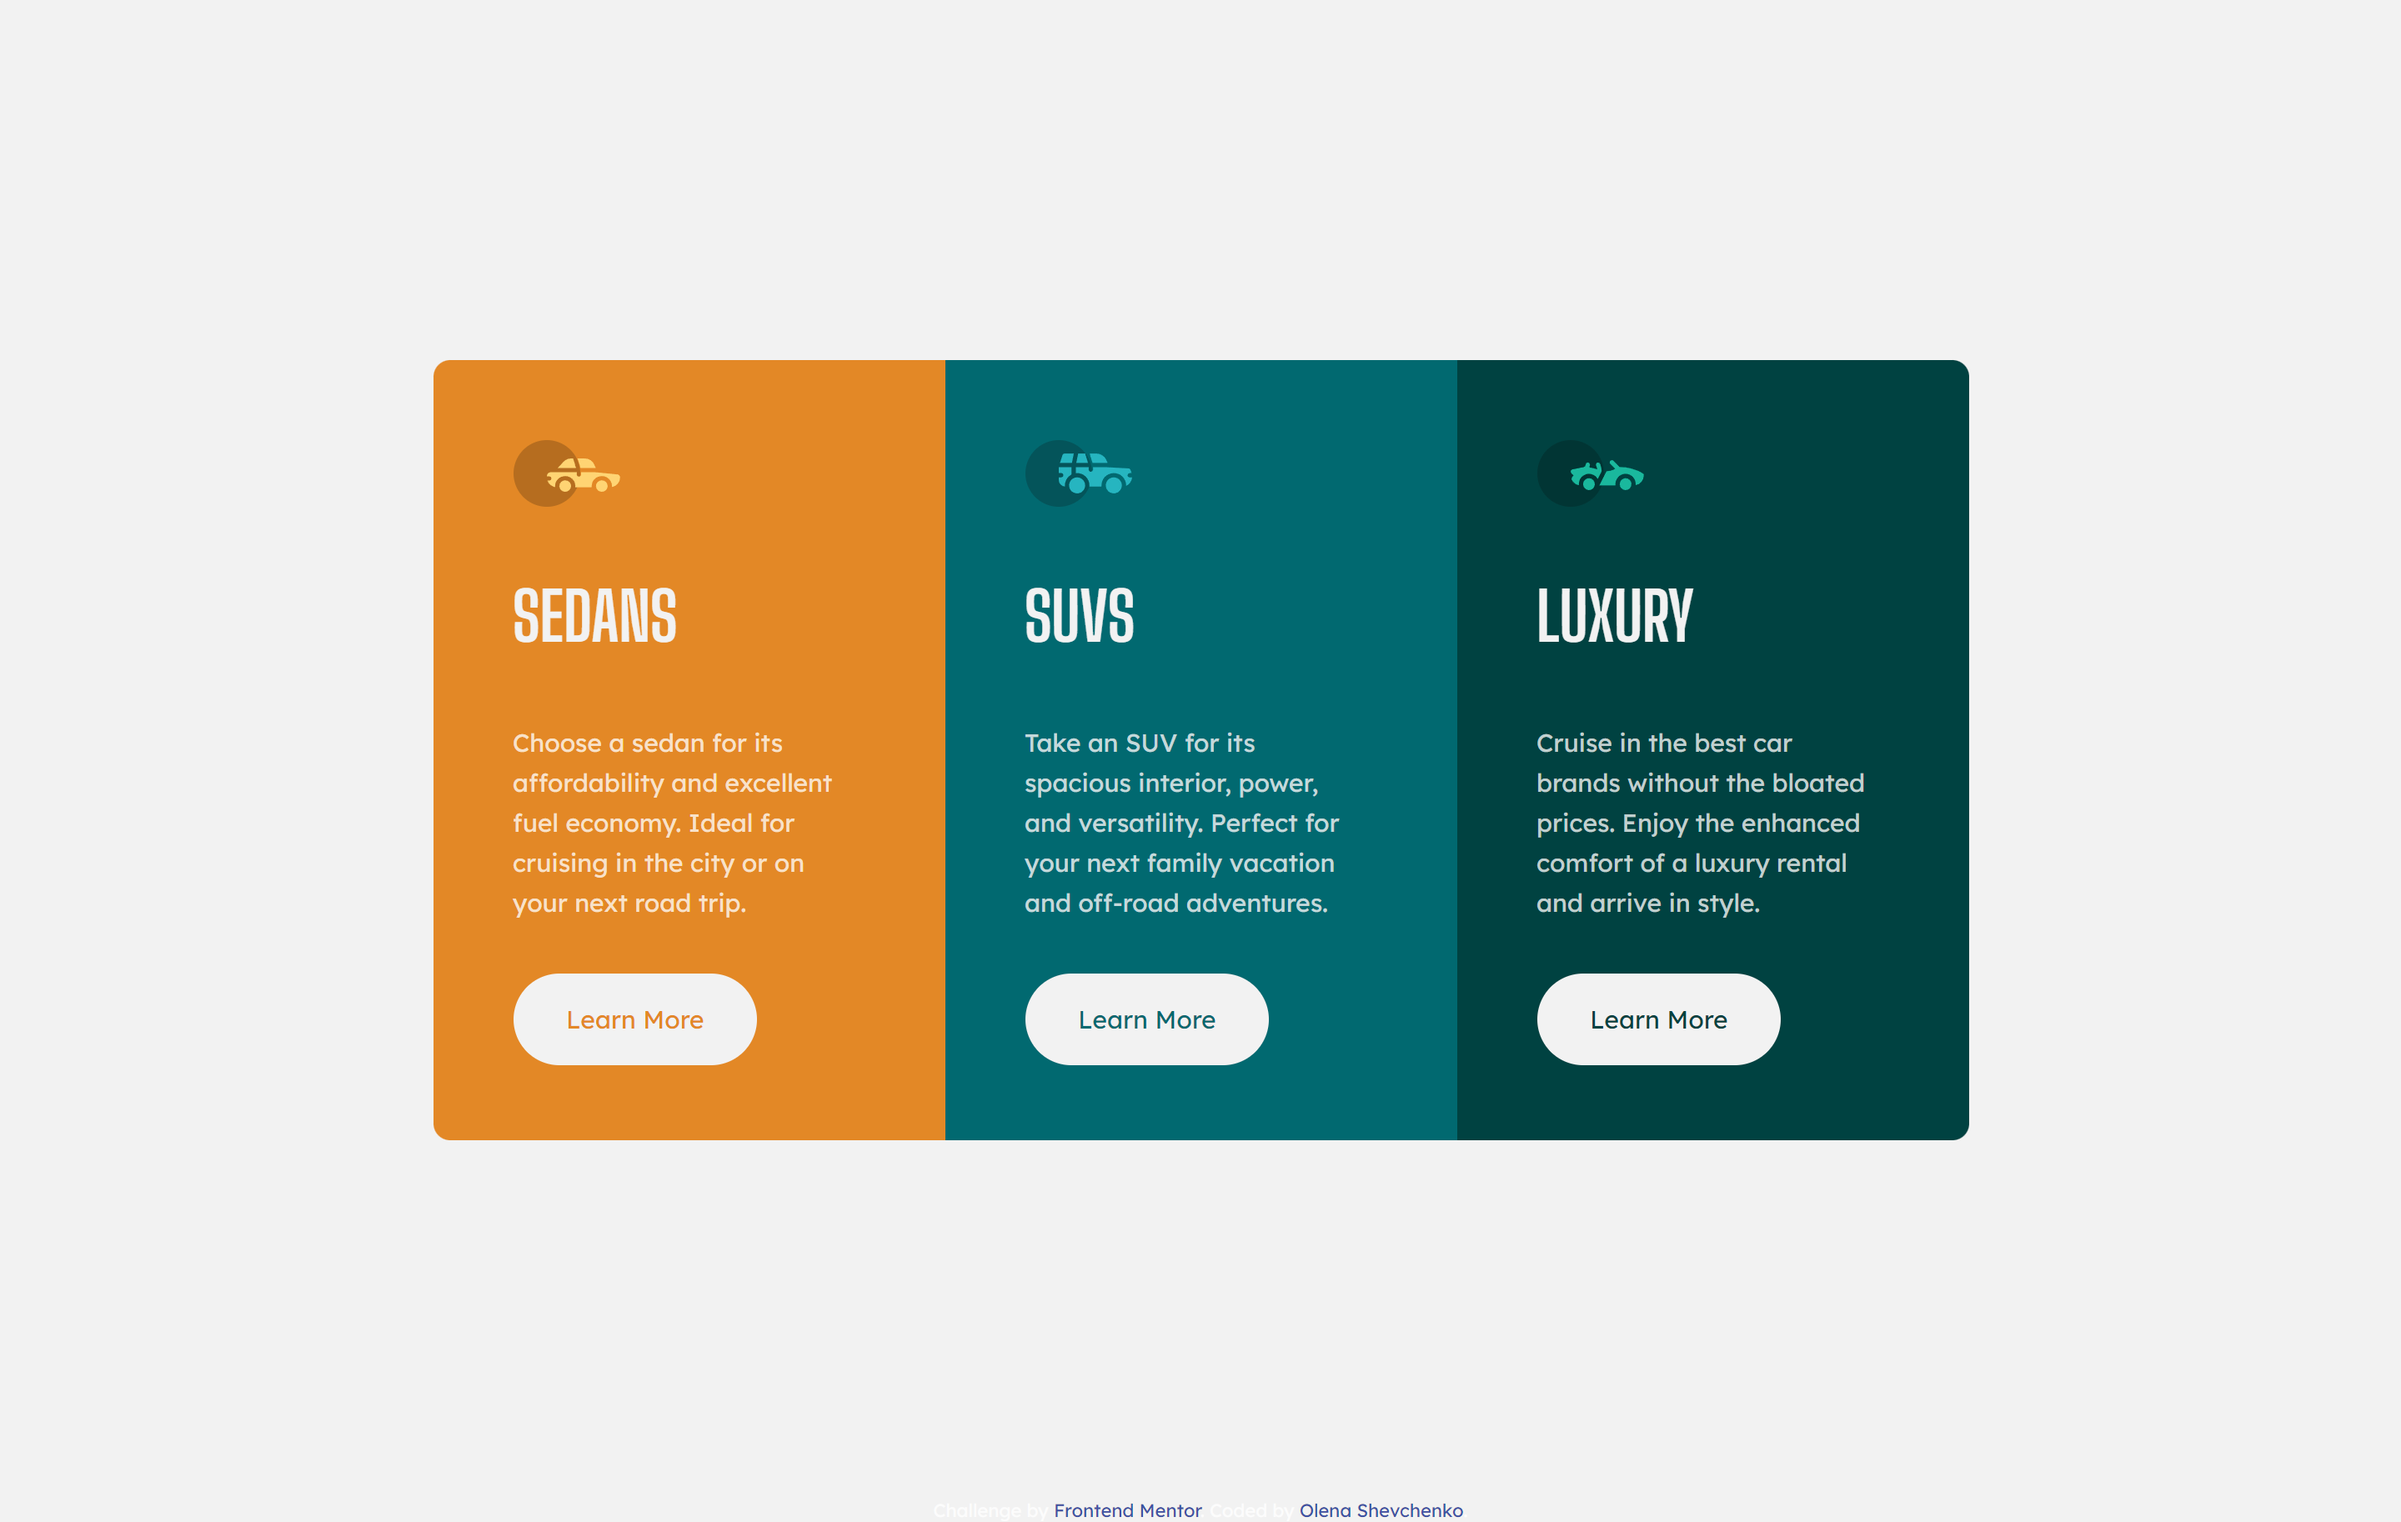
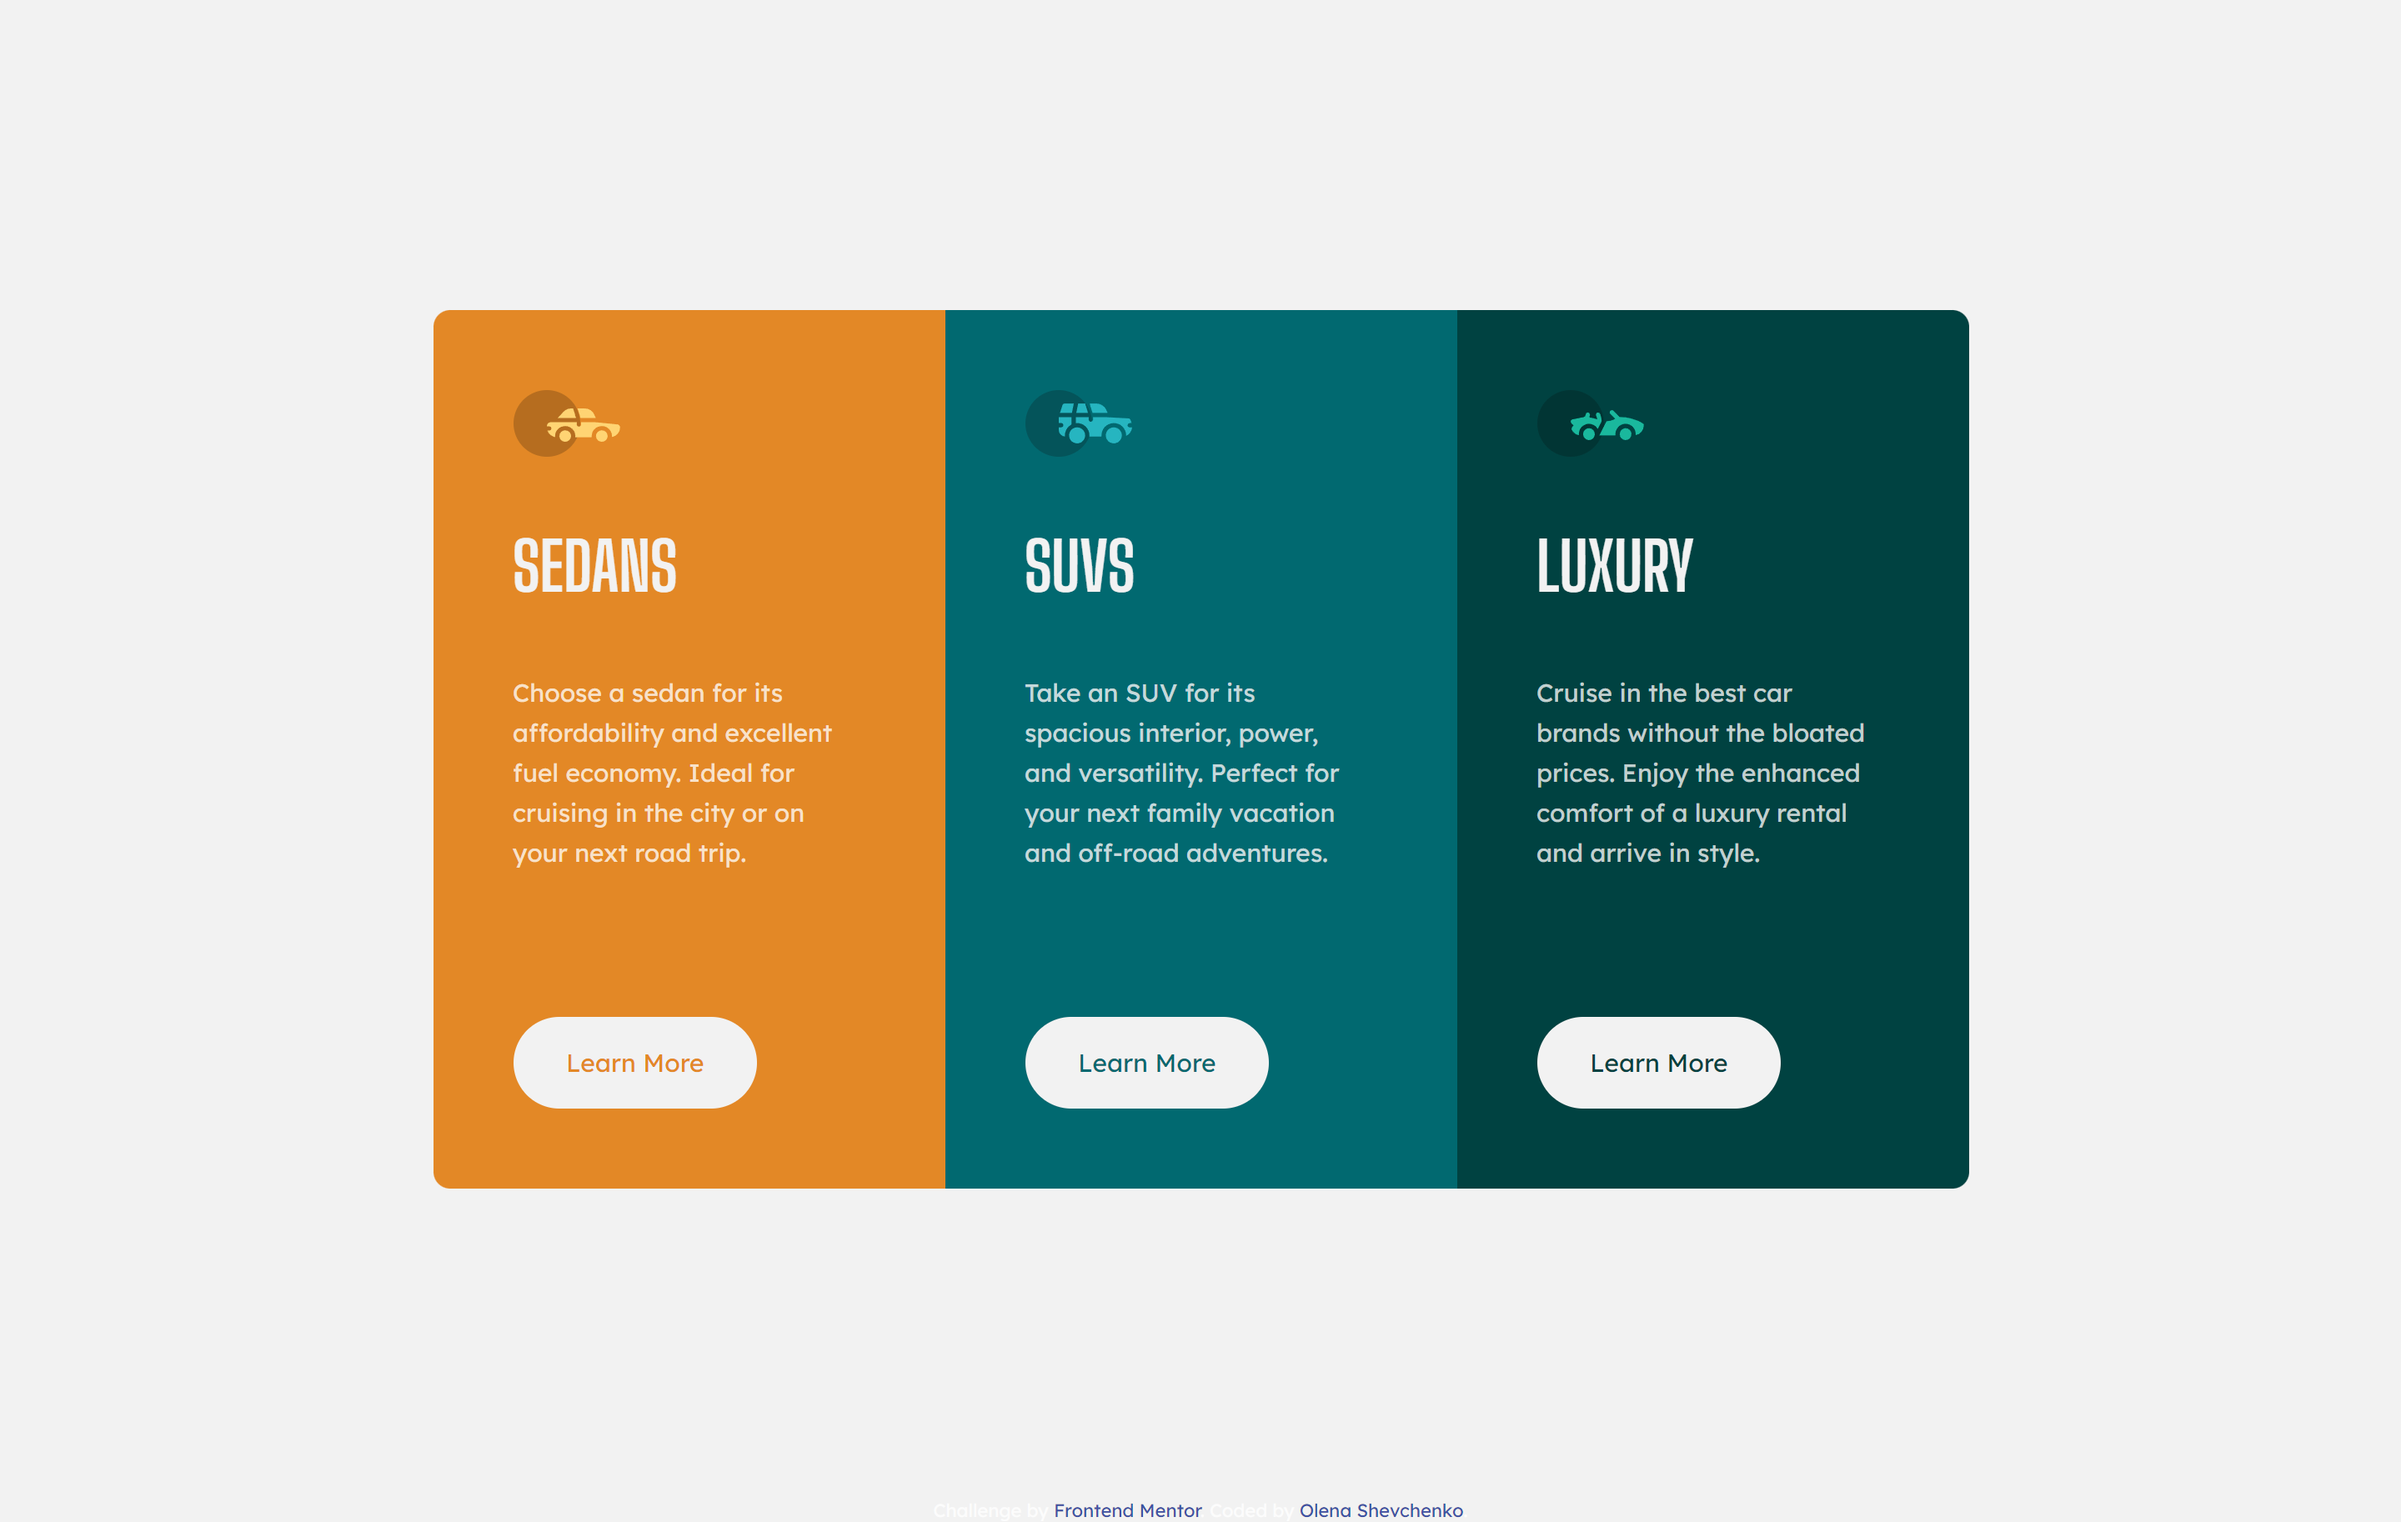
changed padding

Changed region(s): [[0.1562, 0.1873, 0.8438, 0.7804]]

diff --git a/style/style.css b/style/style.css
@@ -161,6 +161,9 @@ button:hover {
 
 /* ------------------------------- */
 @media (min-width: 61.9988em) {
+  p {
+    margin-bottom: 5.375rem;
+  }
   .page {
     display: flex;
     align-items: center;
@@ -171,6 +174,7 @@ button:hover {
   }
   [class*=-main-section] {
     max-width: 19.1875rem;
+    max-height: 33.125rem;
   }
   .page__main:first-child {
     margin-top: 0;

diff --git a/style/style.scss b/style/style.scss
@@ -179,6 +179,11 @@ button:hover {
 
 
 @media (min-width: 61.9988em) {
+
+    p {
+        margin-bottom: 5.375rem;
+    }
+
     .page {
         display: flex;
         align-items: center;
@@ -191,6 +196,7 @@ button:hover {
 
     [class*="-main-section"] {
         max-width: 19.1875rem;
+        max-height: 33.125rem;
     }
 
     .page__main:first-child {
